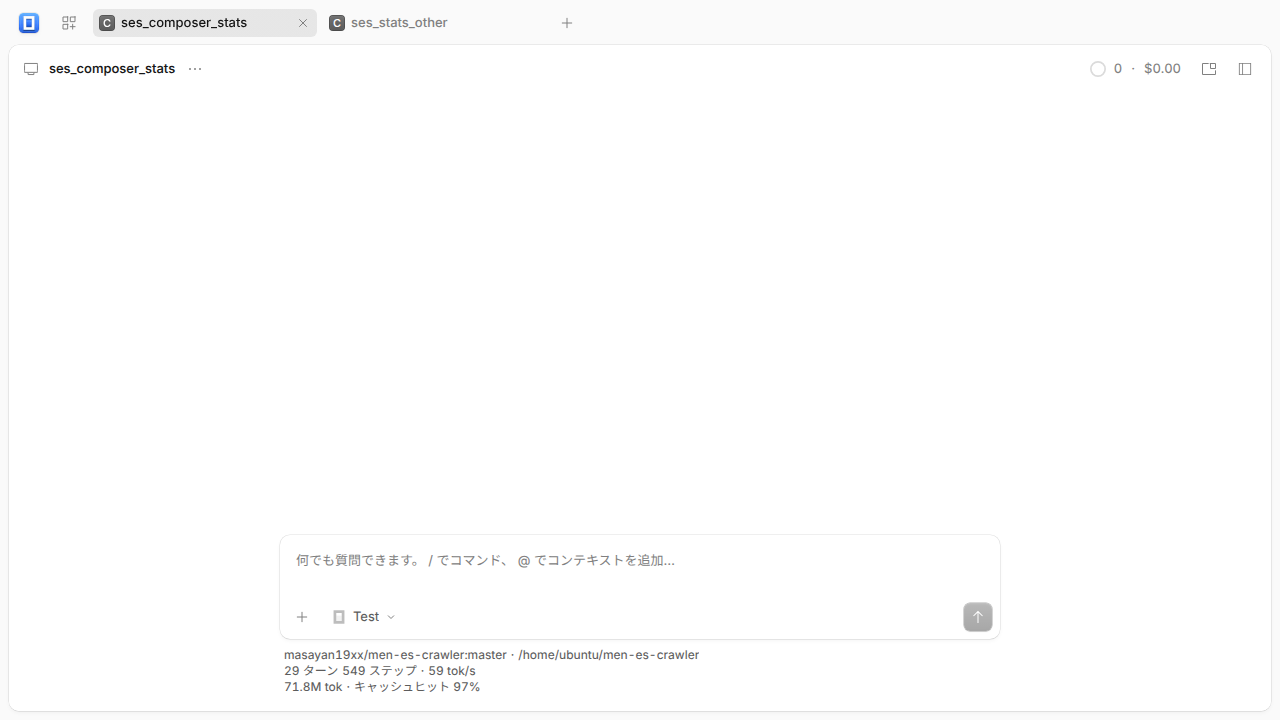
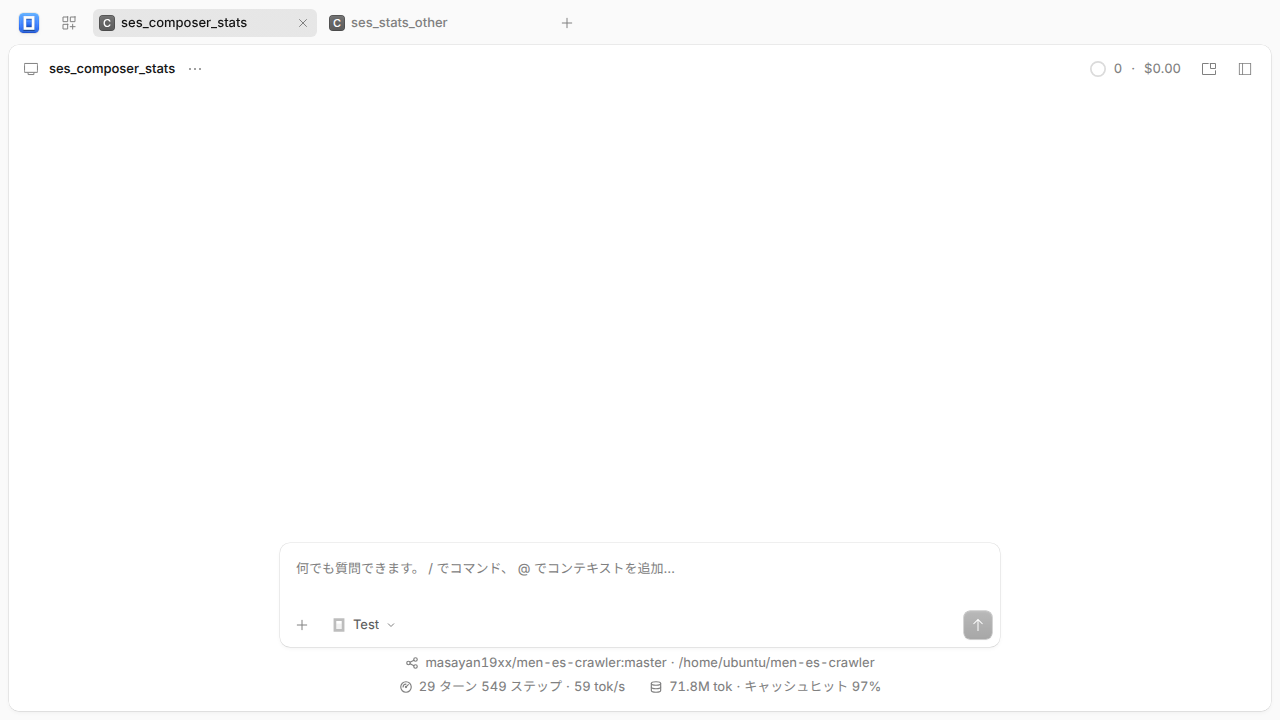
ops: keep builds in source fork and pin centered composer layout

Changed region(s): [[0.2188, 0.8556, 0.6875, 0.9778], [0.2188, 0.7639, 0.5312, 0.7944], [0.75, 0.825, 0.7812, 0.8861]]

diff --git a/docs/operations.md b/docs/operations.md
@@ -25,16 +25,32 @@
 - 切替対象・ポート・データパスを明示した作業として切り替える。既存サービスの接続先を誤って採用しないよう確認する。
 - ブラウザの再読み込み後に独自 UI と版番号を確認する。古い PWA キャッシュが残る場合は該当オリジンのサイトデータを確認する。
 
+## 配布先
+
+リリースとビルド成果物は **akiyan/opencode** にだけ置く。このリポジトリは運用ルールとスクリプトを管理し、GitHub Actions でもビルド成果物を保存しない。`scripts/publish-release.sh` は fork の固定コミットを target にして `akiyan/opencode` の Release を作る。
+
+## 稼働中サービスの更新
+
+カスタムチャンネルは既定の DB 名も変わるため、既存サービスへの切替では `OPENCODE_DB` に従来の DB の絶対パスを明示する。サービス設定もカスタムチャンネル用へ引き継ぎ、URL・ポート・パスワードを維持する。バックアップ・起動設定・実データは非公開のローカル領域に置く。
+
 ## ロールバック
 
 旧バイナリと旧設定へ戻す。upstream 更新で DB migration が入った場合は対応するバックアップも戻す。新しい DB を旧バイナリでそのまま開くことを前提にしない。今回の独自変更自体は DB migration を持たない。
 
 ## 公開物
 
-ソース・運用ルール・固定 SHA・合成データによるスクリーンショットのみを公開する。API キー、remote の資格情報、実セッション DB・会話・ログ・パスワード・バックアップは公開しない。バイナリは Git にコミットせず Actions artifact または明示した release に置く。
+ソース・運用ルール・固定 SHA・合成データによるスクリーンショットのみを公開する。API キー、remote の資格情報、実セッション DB・会話・ログ・パスワード・バックアップは公開しない。バイナリは Git にコミットせず `akiyan/opencode` の release に置く。`opencode-fork-ops` にはリリースやビルド成果物を保存しない。
 
 ## 時雨堂 fork に合わせる方針
 
 参考: [shiguredo/deepseek-harness](https://github.com/shiguredo/deepseek-harness)、[本家との差分](https://github.com/shiguredo/deepseek-harness/compare/deepseek-ai:master...shiguredo)。2026-10-22 JST の確認では、既定ブランチは所有者名の `shiguredo` で、本家 master の上に独自コミット1つ（ahead 1 / behind 0）を載せている。
 
 こちらも所有者名の `akiyan` を運用・既定ブランチにし、本家の採用コミットの上に独自コミット1つを載せる。本家の追従元は upstream remote とし、fork 内に残る本家と同名のブランチが最新であるとは仮定しない。初版の基点は既存の利用環境に合わせた v2.1.2。変更をまとめ直す場合は独自コミットを amend / squash し、公開ブランチ更新は SHA を指定した lease で保護する。
+
+## 本家との差分の検査
+
+`verify.sh` の親子 SHA 検査に加え、公開後に `scripts/verify-upstream.sh` を実行する。基点は **本家 dev のコミット** とし、GitHub トップページでも独自コミット1つだけになることを確認する。v2.1.2 のリリースタグには dev にない公式 release コミットがあったため、タグに独自1つを重ねるだけでは dev 比で ahead 2 になっていた。
+
+## ブラウザの更新
+
+組み込み Web UI の PWA は `skipWaiting: false` / `clientsClaim: false` で、旧版を使うタブが残っている間は更新を待つ。サービスの再起動とブラウザ画面の更新を混同しない。Web UI のタブやインストール済み PWA のウィンドウをすべて閉じてから開き直し、画面の表示も確認する。URL・認証・データを検証しただけで「画面まで確認済み」と報告しない。

diff --git a/docs/validation.md b/docs/validation.md
@@ -1,6 +1,6 @@
 # 検証記録
 
-初版: 2026-10-22 JST、upstream v2.1.2 + 独自コミット1つ。正確な SHA は source.lock.json を参照。
+初版の記録: 2026-10-22 JST、upstream v2.1.2 + 独自コミット1つ。以下の初版の結果と、末尾の更新候補の結果は区別する。現在の固定 SHA は source.lock.json を参照。
 
 ## 成功した確認
 
@@ -45,6 +45,23 @@
 
 ローカルの Ubuntu 26.04 は使用中の Playwright のサポート対象外のため、ブラウザのインストール・実行時だけ `PLAYWRIGHT_HOST_PLATFORM_OVERRIDE=ubuntu24.04-x64` を使用した。
 
-## 本番への影響
+## 初版の本番切替と成果物の保管先
 
-既存の opencode/opencode2 のバイナリ、サービス、設定、実セッション DB は切り替えていない。独自版の起動確認は別ポートと隔離データで行う。自動更新は運用スクリプトで無効にする。
+ユーザーの指示により、既存の systemd user service を `2.1.2-akiyan.1` に切り替えた。既存 DB、認証情報、ポート4096、Tailscale Serve の接続先を維持し、セッション一覧と統計 API の応答を確認した。独自 channel の既定 DB は別名になるため、service の `OPENCODE_DB` で既存 DB を明示している。切替前のバイナリ、設定、整合性を確認した DB バックアップは、公開リポジトリ外の保護されたディレクトリに保存した。
+
+初版の GitHub Actions は成果物をアップロードしたが、その運用は廃止した。リリースと保存済み Actions artifact はこの運用リポジトリから削除済み。初版のリリースは [akiyan/opencode](https://github.com/akiyan/opencode/releases/tag/v2.1.2-akiyan.1) へ移し、チェックサムを照合した。今後もビルド成果物は `akiyan/opencode` に置く。
+
+## 中央配置の更新候補（本番反映前）
+
+`2.1.2-akiyan.2` は upstream dev の `870ab9dc5f2eb97c82024f56278f168353a0b068` を親にした独自コミット1つ。タグを基点にすると dev にない release コミットまで ahead に含まれたため、基点を修正した。GitHub compare API でも ahead が1であることを確認した。upstream の更新により behind の数は変化する。
+
+- 入力欄の外側中央に、リポジトリとパス、その下に実行統計と使用量を配置する。新規セッションにも表示する。
+- `bun run check`: 全34パッケージ成功。
+- app の型チェック成功。
+- core の対象テスト39件、server の対象テスト3件、client の VCS 対象テスト1件成功。
+- Web UI を同梱した Linux x64 ビルド成功。バイナリの版番号は `2.1.2-akiyan.2`。
+- 最終修正後の composer ブラウザテスト2件成功。新規セッション、既存セッション、日本語の指定値、再読み込み、セッション切替、390px幅、未計測・API失敗時を確認した。
+- 添付画像と desktop・mobile・footer拡大・draft のキャプチャを同時に目視比較。最初の比較で発見した SVG mask URL の引用符不足を修正し、再キャプチャで3つのアイコンが描画されることを確認した。文字色は二次情報用のテーマトークンに揃えた。
+- 本番への切替は、以下の切替記録を追記するまで未実施。
+
+変更前後の production benchmark は各1回成功。firstCorrectObservedMs は 599.2 → 647.0、stableObservedMs は 621.7 → 658.7、wrongDestinationSamples は両方0。各1回のため性能の改善・悪化は断定しない。変更後測定は中央配置実装後、アイコンの描画と文字色の最終修正前に行った。

diff --git a/README.md b/README.md
@@ -7,20 +7,20 @@
 - 本家: [anomalyco/opencode](https://github.com/anomalyco/opencode)
 - fork: [akiyan/opencode](https://github.com/akiyan/opencode)、運用ブランチ `akiyan`
 - このリポジトリ: 運用情報とスクリプト
-- 独自変更: プロンプト入力欄の下にリポジトリ・ブランチ・作業パスとセッション統計を3行表示
+- 独自変更: 新規／既存セッションのプロンプト入力欄の下に、リポジトリ・ブランチ・作業パスとセッション統計を中央揃えの2段で表示
 
-fork は **固定した upstream コミット + 独自コミット1つ** を維持します。公式の `dev` / `v2` ブランチには独自変更を載せません。採用する SHA は [config/source.lock.json](config/source.lock.json) で固定します。
+fork は **固定した upstream dev コミット + 独自コミット1つ** を維持します。公式の `dev` / `v2` ブランチには独自変更を載せません。採用する SHA は [config/source.lock.json](config/source.lock.json) で固定します。
 
 ## ビルド済みバイナリ
 
-Linux x86_64 向けは [v2.1.2-akiyan.1](https://github.com/akiyan/opencode-fork-ops/releases/tag/v2.1.2-akiyan.1) から取得できます。アーカイブに含まれる `opencode` をこのリポジトリの `dist/opencode` に配置すると、以下の `scripts/run.sh` を利用できます。
+Linux x86_64 向けは [v2.1.2-akiyan.2](https://github.com/akiyan/opencode/releases/tag/v2.1.2-akiyan.2) から取得できます。アーカイブに含まれる `opencode` を fork 側の `../opencode/dist/opencode` に配置すると、以下の `scripts/run.sh` を利用できます。
 
 ビルド済みバイナリの実行に Bun は不要です。このリポジトリ内で、GitHub CLI を使う場合の手順:
 
 ```sh
-mkdir -p dist
-gh release download v2.1.2-akiyan.1 --repo akiyan/opencode-fork-ops --pattern '*linux-x86_64.tar.gz*' --dir dist
-(cd dist && sha256sum -c opencode-2.1.2-akiyan.1-linux-x86_64.tar.gz.sha256 && tar -xzf opencode-2.1.2-akiyan.1-linux-x86_64.tar.gz)
+mkdir -p ../opencode/dist
+gh release download v2.1.2-akiyan.2 --repo akiyan/opencode --pattern '*linux-x86_64.tar.gz*' --dir ../opencode/dist
+(cd ../opencode/dist && sha256sum -c opencode-2.1.2-akiyan.2-linux-x86_64.tar.gz.sha256 && tar -xzf opencode-2.1.2-akiyan.2-linux-x86_64.tar.gz)
 ./scripts/run.sh
 ```
 
@@ -39,7 +39,7 @@ git -C ../opencode checkout <表示されたSHA>
 ./scripts/build.sh
 ```
 
-成果物は `dist/` に保存します。GitHub Actions の **Build fork** を手動実行して、Linux x64 の成果物を取得することもできます。
+成果物は fork 側の `../opencode/dist/` に保存します。公開リリースの配置先は **akiyan/opencode** です。この運用リポジトリにはリリースやビルド成果物を保存しません。GitHub Actions の **Build fork** は検証のみを行います。
 
 ## 試運転
 

diff --git a/AGENTS.md b/AGENTS.md
@@ -1,7 +1,8 @@
 # Fork operations
 
 - This repository owns operational rules; application changes belong in akiyan/opencode.
-- Keep akiyan exactly one commit ahead of the SHA in config/source.lock.json. Never rewrite official upstream refs.
+- Keep akiyan exactly one commit ahead of an adopted upstream dev commit. Verify the GitHub comparison against anomalyco:dev with scripts/verify-upstream.sh; a release tag can contain extra commits absent from dev. Never rewrite official upstream refs.
+- Release binaries and build artifacts belong only in akiyan/opencode. Do not create releases or retain Actions artifacts in opencode-fork-ops.
 - Use the user-approved Japanese labels: ターン, ステップ, キャッシュヒット.
 - Keep runtime data, credentials, logs, generated binaries, and local paths out of commits. Public examples must be fictional or explicitly supplied by the user.
 - Before publishing a new lock, verify the actual parent SHA, clean worktree, checks, tests, and binary build. Record limitations honestly.

diff --git a/docs/metrics.md b/docs/metrics.md
@@ -1,5 +1,7 @@
 # 表示する数値
 
+入力枠の外側・直下の中央に配置する。上段はリポジトリ／ブランチと作業ディレクトリ、下段は実行統計と利用量をアイコン付きの2グループで横並びにする。狭い画面ではグループ単位で折り返す。新規セッションの入力画面にも表示し、送信前の件数と累計トークンは0にする。
+
 表示対象は開いているセッションです。子セッション・サブエージェントの数値を足し合わせません。
 
 | 項目 | 定義 |
